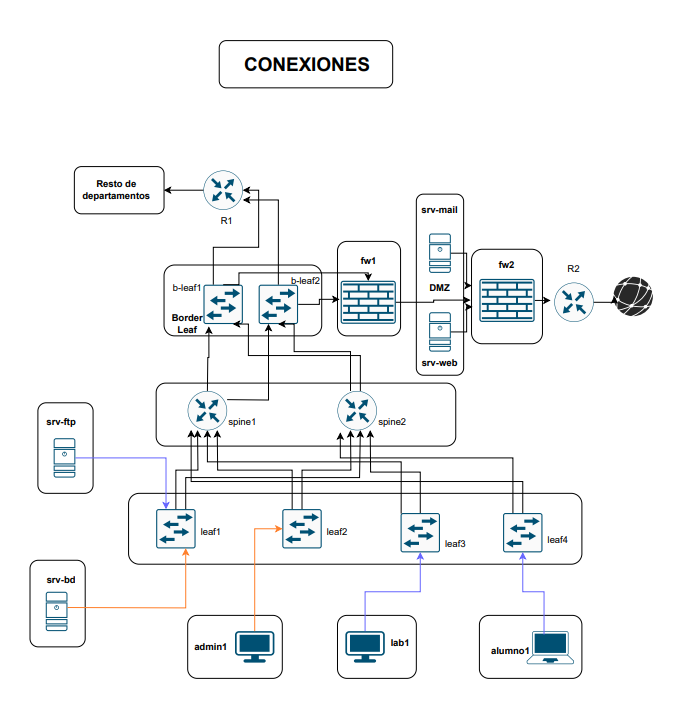
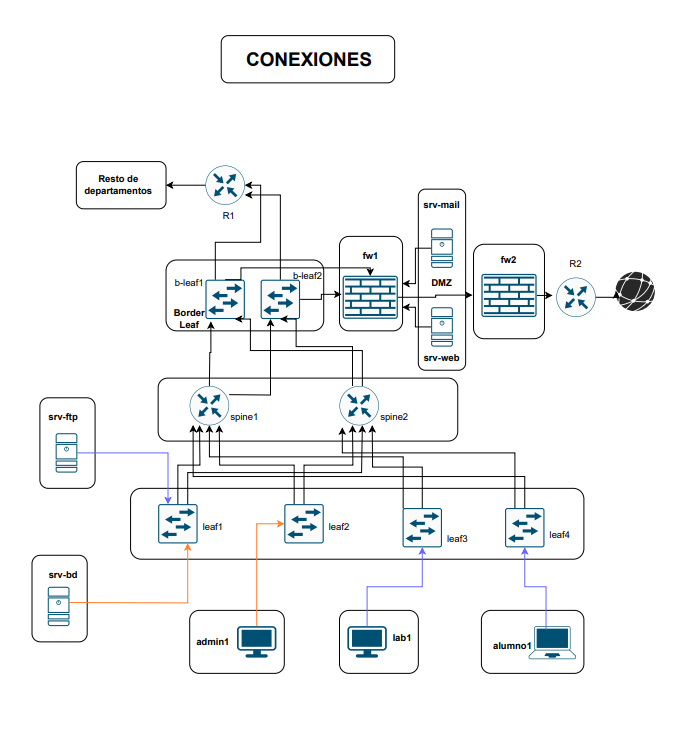
retocando README.md

Changed region(s): [[0.0309, 0.213, 0.9588, 0.9433], [0.3093, 0.0304, 0.5876, 0.1217], [0.0309, 0.5173, 0.1546, 0.6694]]

diff --git a/README.md b/README.md
@@ -1,7 +1,7 @@
 # facultad_ciencias
 # Topología de la Facultad de Ciencias 
 
-![](images/facultad_ciencias_topología.png)
+![](images/facultad_ciencias_topo.png)
 
 # Descripcion de la topología
 
@@ -112,11 +112,8 @@ Ethernet0/2: 10.10.50.2
 
 Ethernet0/3: 10.10.50.3
 
-También tiene una interfaz encendida (Ethernet1/0) sin dirección IP.
+Este firewall es la frontera entre la red LAN y el exterior. Tiene conectado directamente el DMZ y la salida al otro firewall.
 
-Esta configuración sugiere que está pensado para conectar distintas zonas internas o perimetrales (por ejemplo, DMZ, red de usuarios, red de servidores).
-
-No hay configuraciones de rutas ni políticas mostradas (ni estáticas ni dinámicas).
 
 ## Firewall 2
 Tenemos 2 interfaces activas en la red 192.168.4.0/30:
@@ -125,9 +122,7 @@ Ethernet0/1: 192.168.4.2
 
 Ethernet0/2: 192.168.4.1
 
-Esta red parece ser un enlace punto a punto, posiblemente entre el Firewall2 y algún router de borde o ISP.
-
-Al igual que Firewall 1, no hay rutas ni políticas configuradas.
+Esta red es un enlace punto a punto entre el Firewall 2 y el Firewall 1.
 
 
 ## LeadB1 (Border Leaf L1):
@@ -143,6 +138,8 @@ Spine S2 (Ethernet0/2) con IP 192.168.2.18/30
 Router R1 Departamentos (Ethernet0/3) con IP 192.168.3.1/30
 
 Firewall 1 (Ethernet1/0) con IP 192.168.8.1/30
+
+También envía el tráfico a internet 0.0.0.0 0.0.0.0 hacia el Firewall 1
 
 Esta configuración permite conectar la red interna de departamentos y firewall con la infraestructura Spine.
 
@@ -162,6 +159,8 @@ Router R1 Departamentos (Ethernet1/0) con IP 192.168.6.1/30
 
 Conectividad similar a LeadB1 pero con direcciones IP diferentes, integrando firewall y departamentos hacia Spine.
 
+Al igual que el 1 envía el tráfico a internet.
+
 Función general:
 Ambos Border Leafs actúan como puntos de interconexión entre la red Spine, routers departamentales y el firewall, usando enlaces punto a punto con IPs estáticas para asegurar la segmentación y el control del tráfico.
 
@@ -179,7 +178,6 @@ Router ID: 5.5.5.5
 
 Red anunciada: 192.168.1.0/24 en área 0
 
-Configuración guardada.
 
 ## Spine2:
 
@@ -191,9 +189,8 @@ Router ID para OSPF: 6.6.6.6
 
 OSPF anuncia la red 192.168.2.0/24 en área 0.
 
-Configuración guardada.
 
-Ambos switches Spine actúan como routers para el tráfico entre Leafs, usando OSPF para la convergencia y el intercambio de rutas en el área 0, con interfaces punto a punto en enlaces directos y con IPs estáticas asignadas.
+Ambos switches de capa 3 Spine actúan como routers para el tráfico entre Leafs, usando OSPF para la convergencia y el intercambio de rutas en el área 0, con interfaces punto a punto en enlaces directos y con IPs estáticas asignadas.
 
 ## R1 (Router Border Leaf):
 
@@ -235,13 +232,37 @@ Subinterfaz: Ethernet0/1.0
 
 VLAN: 1 (dot1Q 1)
 
-Dirección IP: 10.10.40.2/27
+Dirección IP: 10.10.10.2/27
 
-Red: 10.10.40.0/27
+Red: 10.10.10.0/27
 
-Finalidad: Servidor de base de datos, ubicado en una subred privada compartida con el servidor FTP.
+Finalidad: Servidor de base de datos que comparte Vlan con el pc admin.
 
 ## Servidor Ftp
+
+Subinterfaz: Ethernet0/1.0
+
+VLAN: 1 (dot1Q 1)
+
+Dirección IP: 10.10.20.3/27
+
+Red: 10.10.20.0/27
+
+Finalidad: Servidor de transferencia de archivos para los alumnos, comparte Vlan con los pc de lab y alumnos.
+
+## Servidor Mail
+
+Subinterfaz: Ethernet0/1.0
+
+VLAN: 1 (dot1Q 1)
+
+Dirección IP: 10.10.40.2/27
+
+Red: 10.10.10.0/27
+
+Finalidad: Servidor de correo público que se puede tanto desde internet como desde la LAN.
+
+## Servidor Web
 
 Subinterfaz: Ethernet0/1.0
 
@@ -251,31 +272,7 @@ Dirección IP: 10.10.40.3/27
 
 Red: 10.10.40.0/27
 
-Finalidad: Servidor de transferencia de archivos, comparte red con el servidor BBDD.
-
-## Servidor Mail
-
-Subinterfaz: Ethernet0/1.0
-
-VLAN: 1 (dot1Q 1)
-
-Dirección IP: 192.168.100.10/24
-
-Red: 192.168.100.0/24
-
-Finalidad: Servidor de correo, en una subred independiente.
-
-## Servidor Web
-
-Subinterfaz: Ethernet0/1.0
-
-VLAN: 1 (dot1Q 1)
-
-Dirección IP: 192.168.200.10/24
-
-Red: 192.168.200.0/24
-
-Finalidad: Servidor web público o privado, también en su propia subred.
+Finalidad: Servidor web público que se puede tanto desde internet como desde la LAN.
 
 ## Host Admin1
 
@@ -287,7 +284,7 @@ Red: 10.10.10.0/27
 
 Finalidad: Estación de administración o gestión.
 
-Nota: Conectado directamente sin VLAN. Segmentado del resto de equipos por subred.
+Está dentro de la Vlan 10 y se puede conectar con el servidor de Base de Datos.
 
 ## Host Alumno1
 
@@ -301,7 +298,7 @@ Red: 10.10.20.0/24
 
 Finalidad: Estación de un usuario final o alumno.
 
-Nota: Utiliza VLAN 1 para segmentación. Comparte red con Lab1.
+Comparte red con Lab1.
 
 ## Host Lab1
 
@@ -311,7 +308,7 @@ Dirección IP: 10.10.20.2/24
 
 Red: 10.10.20.0/24
 
-Finalidad: Máquina de laboratorio, probablemente servidor de prácticas o entorno de desarrollo.
+Finalidad: Es un pc de Laboratorio como ejemplo de los que podía haber en un clase.
 
-Nota: Conectado directamente, sin subinterfaz ni VLAN explícita. Está en la misma red que Alumno1.
+Está en la misma red que Alumno1.
 
